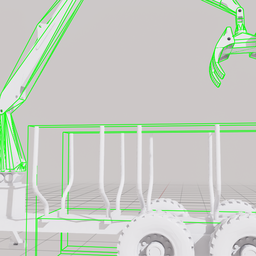
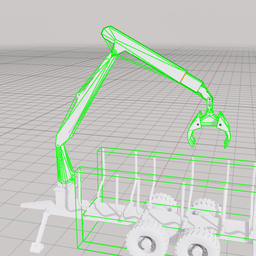
Added wood and roints randomization

diff --git a/omniisaacgymenvs/tasks/forwarder_pick.py b/omniisaacgymenvs/tasks/forwarder_pick.py
@@ -119,7 +119,7 @@ class ForwarderPickTask(RLTask):
         scene.add(self._woods)
 
         self.fwd_default_dof_pos = torch.tensor(
-                        [0, -0.349066, -0.436332, -2.239, .2, 0.035, 0.035], device=self._device
+                        [0, -0.349066, -0.436332, 0, .2, 0.035, 0.035], device=self._device
         )
         self.active_joints = torch.tensor([0,1,2,3,6,7,8], device=self._device)
         self.action_scale = torch.tensor(self.action_scale, device=self._device)
@@ -358,8 +358,6 @@ class ForwarderPickTask(RLTask):
         #self.wood_sides[indices] = ~self.wood_sides[indices]
         wood_pos[:,0] +=  torch.randint(-100, 0, (num_resets, 1), device=self._device).flatten() / 10
 
-        
-
         #print(self.fwd_dof_targets[indices].shape)
 
         #initial_wood_pos = self.initial_wood_pos.clone()
@@ -373,7 +371,7 @@ class ForwarderPickTask(RLTask):
 
         wood_rot_euler = torch.zeros((num_resets, 3), device=self._device)
         wood_rot_euler[:, 2] = rand_angle.squeeze()
-        wood_rot_euler = torch.tensor([0.0,1.58,0.0], device=self._device).clone().repeat((num_resets,1))
+        #wood_rot_euler = torch.tensor([0.0,1.58,0.0], device=self._device).clone().repeat((num_resets,1))
         wood_rot = axisangle2quat(wood_rot_euler)
         wood_velocities = torch.zeros((num_resets, 6), device=self._device)
 
@@ -386,11 +384,8 @@ class ForwarderPickTask(RLTask):
         #(a - b)*torch.rand(5, 3) + b
 
         # Randomize pos of all active joints
-        #self.fwd_dof_targets[indices_64] = (self.active_dof_lower_limits - self.active_dof_upper_limits) *torch.rand_like(self.fwd_dof_targets[indices_64]) + self.active_dof_upper_limits
+        self.fwd_dof_targets[indices_64] = (self.active_dof_lower_limits - self.active_dof_upper_limits) *torch.rand_like(self.fwd_dof_targets[indices_64]) + self.active_dof_upper_limits
         
-        #print('Active limits: ', self.active_dof_upper_limits)
-        #print('TARGETS ', self.fwd_dof_targets[253,:])
-        #print(self.active_dof_lower_limits[0], self.active_dof_upper_limits[0])
 
         #self.fwd_dof_targets[indices_64, 0] = torch_rand_float(-self.active_dof_lower_limits[0], 
         #                                                       self.active_dof_upper_limits[0], 
@@ -484,6 +479,7 @@ class ForwarderPickTask(RLTask):
 
         reward = wood_grappler_reward
 
+        
         # Set reward for getting close to the target by x-y distance
         wood_drop_zone_reward = self.calculate_distance_reward(self.wood_pos[:, :2], target_position[:, :2])
 
@@ -511,8 +507,8 @@ class ForwarderPickTask(RLTask):
         # Add reward for leaving the wood at the target and lifting the grapple after delivery
         reward *= 1 +  self.grapple_body_pos[:, 2] * 1e2 * close_to_target * self.delivered
 
-        print('Reward: ', torch.mean(reward).item(), 'Close to wood: ', torch.mean(close_to_wood).item(), 'Close to drop-zone: ', torch.mean(close_to_drop_zone).item(), 
-              'Close to target: ', torch.mean(close_to_target).item(), 'Wood z pos: ', torch.mean(self.wood_pos[:, 2]).item(), 'Grapple z pos: ', torch.mean(self.grapple_body_pos[:, 2]).item(), 'Delivered: ', torch.mean(self.delivered).item())
+        #print('Reward: ', torch.mean(reward).item(), 'Close to wood: ', torch.mean(close_to_wood).item(), 'Close to drop-zone: ', torch.mean(close_to_drop_zone).item(), 
+        #      'Close to target: ', torch.mean(close_to_target).item(), 'Wood z pos: ', torch.mean(self.wood_pos[:, 2]).item(), 'Grapple z pos: ', torch.mean(self.grapple_body_pos[:, 2]).item(), 'Delivered: ', torch.mean(self.delivered).item())
 
 
         reward -= 0.01
